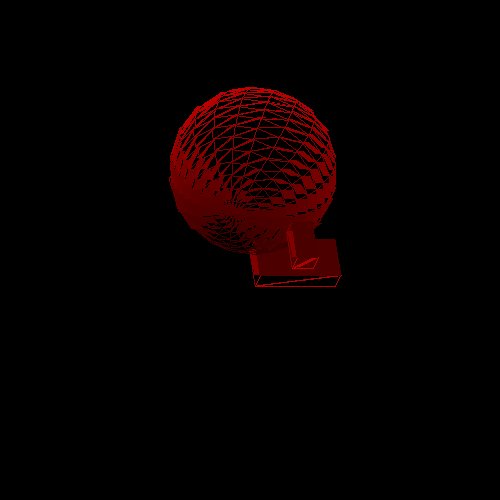
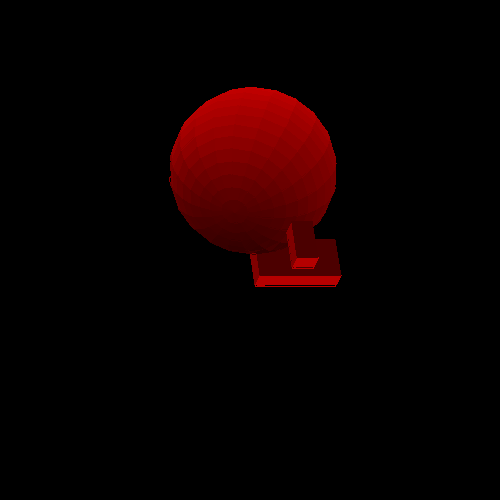
penis

Changed region(s): [[0.36, 0.18, 0.69, 0.51], [0.51, 0.51, 0.69, 0.57]]

diff --git a/draw.py b/draw.py
@@ -69,7 +69,7 @@ def draw_polygons( points, screen, color, ambK, specK, diffK, ambI, light_pos):
             scanline_convert( screen, color, z_plane,
                               points,
                               points[p][0], points[p][1],
-                              points[p+1][0], points[p+2][1],
+                              points[p+1][0], points[p+1][1],
                               points[p+2][0], points[p+2][1] )
         p+= 3
 
@@ -144,12 +144,12 @@ def scanline_convert( screen, color, zplane, points, x0, y0, x1, y1, x2, y2 ):
             xb = Mx
             y = My
         if pastM:
-            if (My - .5) <= Ty <= (My + .5):
+            if Ty == My:
                 d1 = 0
             else:
                 d1 = ((Tx - Mx)*1.0)/(Ty-My)
         else:
-            if (By - .5) <= My <= (By + .5):
+            if By == My:
                 d1 = 0
             else:
                 d1 = ((Mx - Bx)*1.0)/(My-By)
